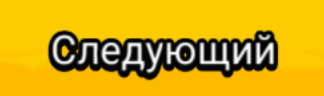
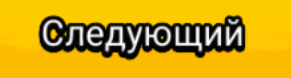
Add timeout actions.

diff --git a/artsofwarbot.py b/artsofwarbot.py
@@ -36,11 +36,19 @@ buttons = [
         'img': None
         },
     {
-        'x': 546,
-        'y': 1383,
-        'width': 324,
-        'height': 96,
+        'x': 567,
+        'y': 1401,
+        'width': 291,
+        'height': 78,
         'imgfile': 'next-level-defeted.png',
+        'img': None
+        },
+    {
+        'x': 555,
+        'y': 1398,
+        'width': 327,
+        'height': 78,
+        'imgfile': 'next-level-defeted-2.png',
         'img': None
         },
     {
@@ -124,9 +132,9 @@ buttons = [
         'img': None
         },
     {
-        'x': 360,
-        'y': 1359,
-        'width': 360,
+        'x': 369,
+        'y': 1356,
+        'width': 339,
         'height': 90,
         'imgfile': 'reconnect.png',
         'img': None
@@ -149,6 +157,17 @@ buttons = [
         }
 ]
 
+timeoutButtons = [
+    {
+        'x': 325,
+        'y': 1913,
+        'width': 419,
+        'height': 121,
+        'imgfile': 'cancel-fight.png',
+        'img': None
+        }
+]
+
 logging.basicConfig(
     filename='artsofwarbot/logs/artsofwarbot.log',
     filemode='a',
@@ -163,30 +182,41 @@ device = MonkeyRunner.waitForConnection()
 for button in buttons:
     button['img'] = MonkeyRunner.loadImageFromFile(os.path.join(BUTTONS_PATH, button['imgfile']));
 
+for button in timeoutButtons:
+    button['img'] = MonkeyRunner.loadImageFromFile(os.path.join(BUTTONS_PATH, button['imgfile']));
+
 unknownSnapsCnt = 0
+
+def checkButton(snap, button):
+    snapButton = snap.getSubImage((button['x'], button['y'], button['width'], button['height']))
+    snapSame = snapButton.sameAs(button['img'], 0.9)
+    if snapSame:
+        unknownSnapsCnt = 0
+        touchX = random.randint(button['x'] + TOUCH_PADDING, button['x'] + button['width'] - TOUCH_PADDING)
+        touchY = random.randint(button['y'] + TOUCH_PADDING, button['y'] + button['height'] - TOUCH_PADDING)
+        sleepSeconds = random.randint(1, 10) / 10.0
+        logging.info("touch -> image: %s; x: %d; y: %d; sleepSeconds: %f"
+                     % (button['imgfile'], touchX, touchX, sleepSeconds))
+        MonkeyRunner.sleep(sleepSeconds)
+        device.touch(touchX, touchY, MonkeyDevice.DOWN_AND_UP)
+        return True
+    return False
 
 def processLoopAction():
     global unknownSnapsCnt
     snap = device.takeSnapshot()
     for button in buttons:
-        snapButton = snap.getSubImage((button['x'], button['y'], button['width'], button['height']))
-        snapSame = snapButton.sameAs(button['img'], 0.9)
-        if snapSame:
-            unknownSnapsCnt = 0
-            touchX = random.randint(button['x'] + TOUCH_PADDING, button['x'] + button['width'] - TOUCH_PADDING)
-            touchY = random.randint(button['y'] + TOUCH_PADDING, button['y'] + button['height'] - TOUCH_PADDING)
-            sleepSeconds = random.randint(1, 10) / 10.0
-            logging.info("touch -> image: %s; x: %d; y: %d; sleepSeconds: %f"
-                         % (button['imgfile'], touchX, touchX, sleepSeconds))
-            MonkeyRunner.sleep(sleepSeconds)
-            device.touch(touchX, touchY, MonkeyDevice.DOWN_AND_UP)
+        if checkButton(snap, button):
             return
 
     unknownSnapsCnt += 1
-    if unknownSnapsCnt == MAX_UNKNOWN_SNAPS:
+    if unknownSnapsCnt % MAX_UNKNOWN_SNAPS == 0:
         logging.info("unknown screen snap")
         dtStr = datetime.now().strftime("%Y%m%d%H%M%S")
         snap.writeToFile("artsofwarbot/logs/unknown-%s.png" % dtStr,'png')
+        for button in timeoutButtons:
+            if checkButton(snap, button):
+                break
     pass
 
 def getSnapshot():
